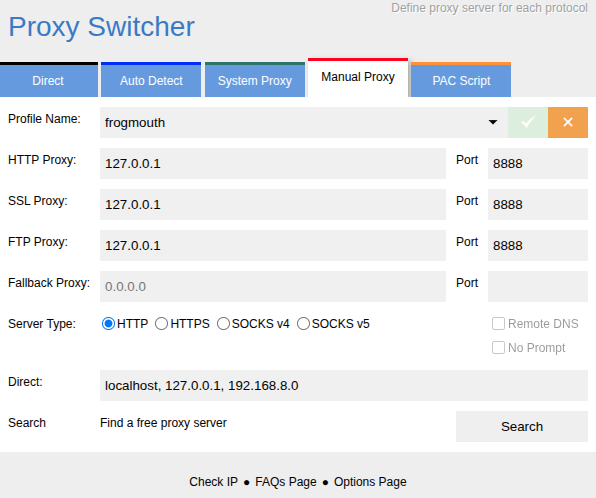
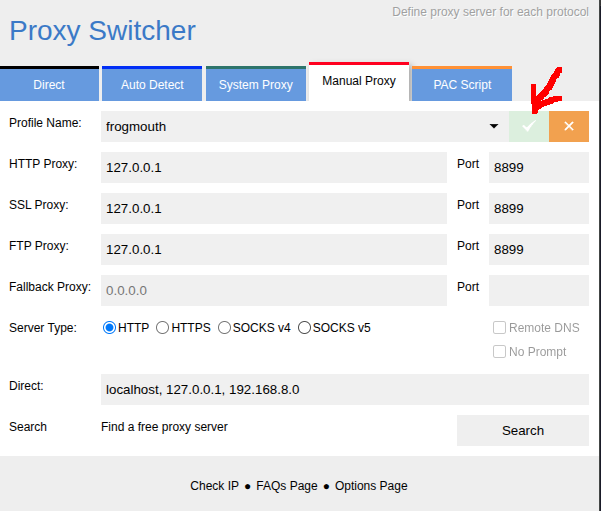
switch to a less  busy default port

diff --git a/darkly_addon.py b/darkly_addon.py
@@ -143,14 +143,7 @@ class DarklyAddon:
                     print(f"Instructions updated/reset.")
                     
                     # Redirect back to home after saving
-                    flow.response = http.Response.make(
-                        302, 
-                        b"", 
-                        {
-                            "Location": "/",
-                            "Set-Cookie": f"darkly_instructions={current_instructions.encode('utf-8').hex()}; Path=/; Max-Age=31536000"
-                        }
-                    )
+                    flow.response = http.Response.make(302, b"", {"Location": "/"})
                 except Exception as e:
                     flow.response = http.Response.make(500, f"Error saving: {str(e)}".encode(), {"Content-Type": "text/plain"})
                 return

diff --git a/app.py b/app.py
@@ -2,7 +2,7 @@ import subprocess
 import os
 import sys
 
-PORT = "8888"
+PORT = "8899"
 
 def run_proxy():
     print("Starting 'Through a Browser, Darkly' Proxy...")
